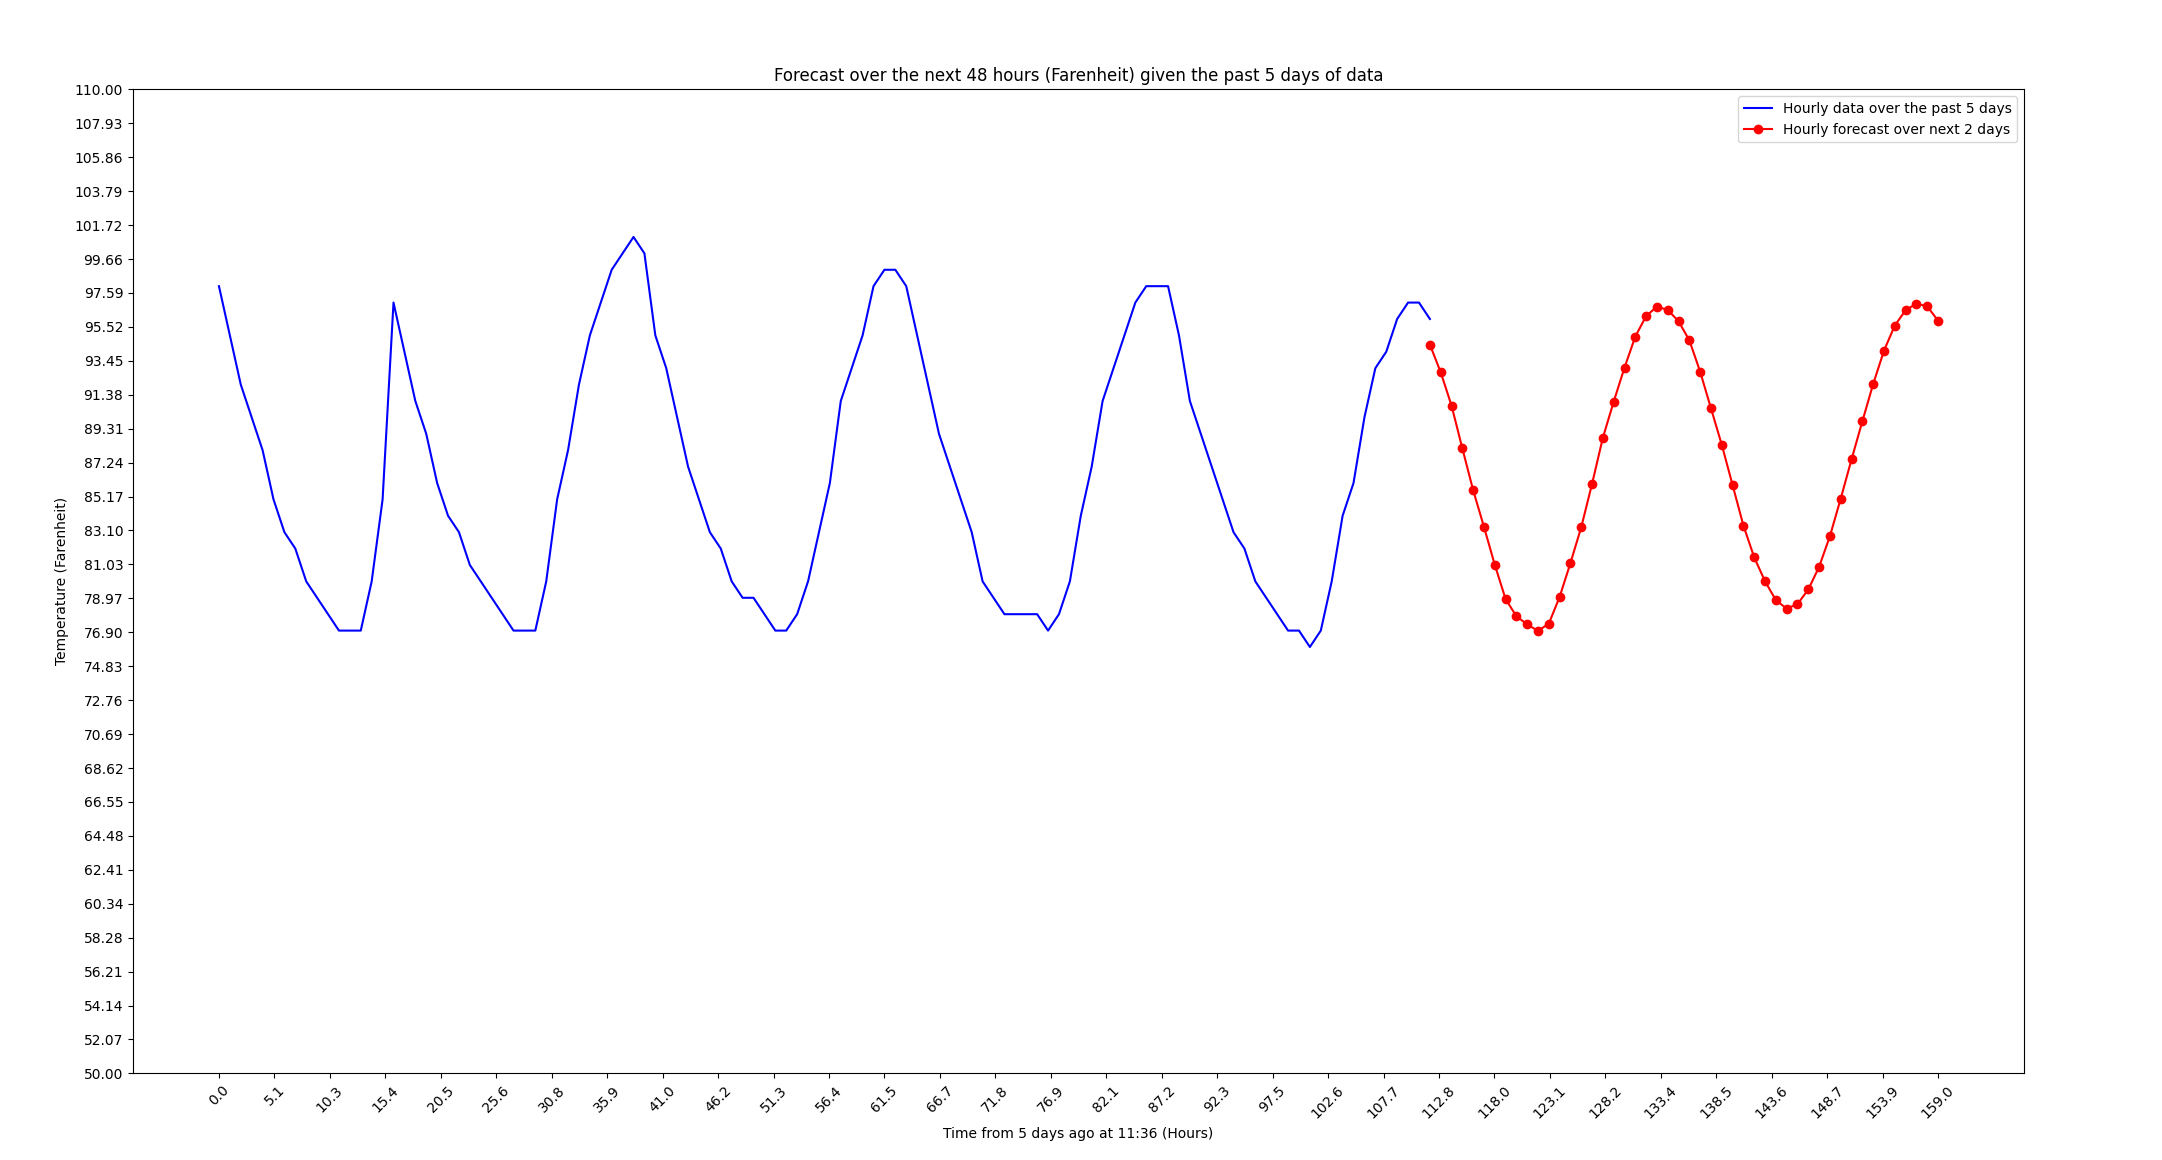
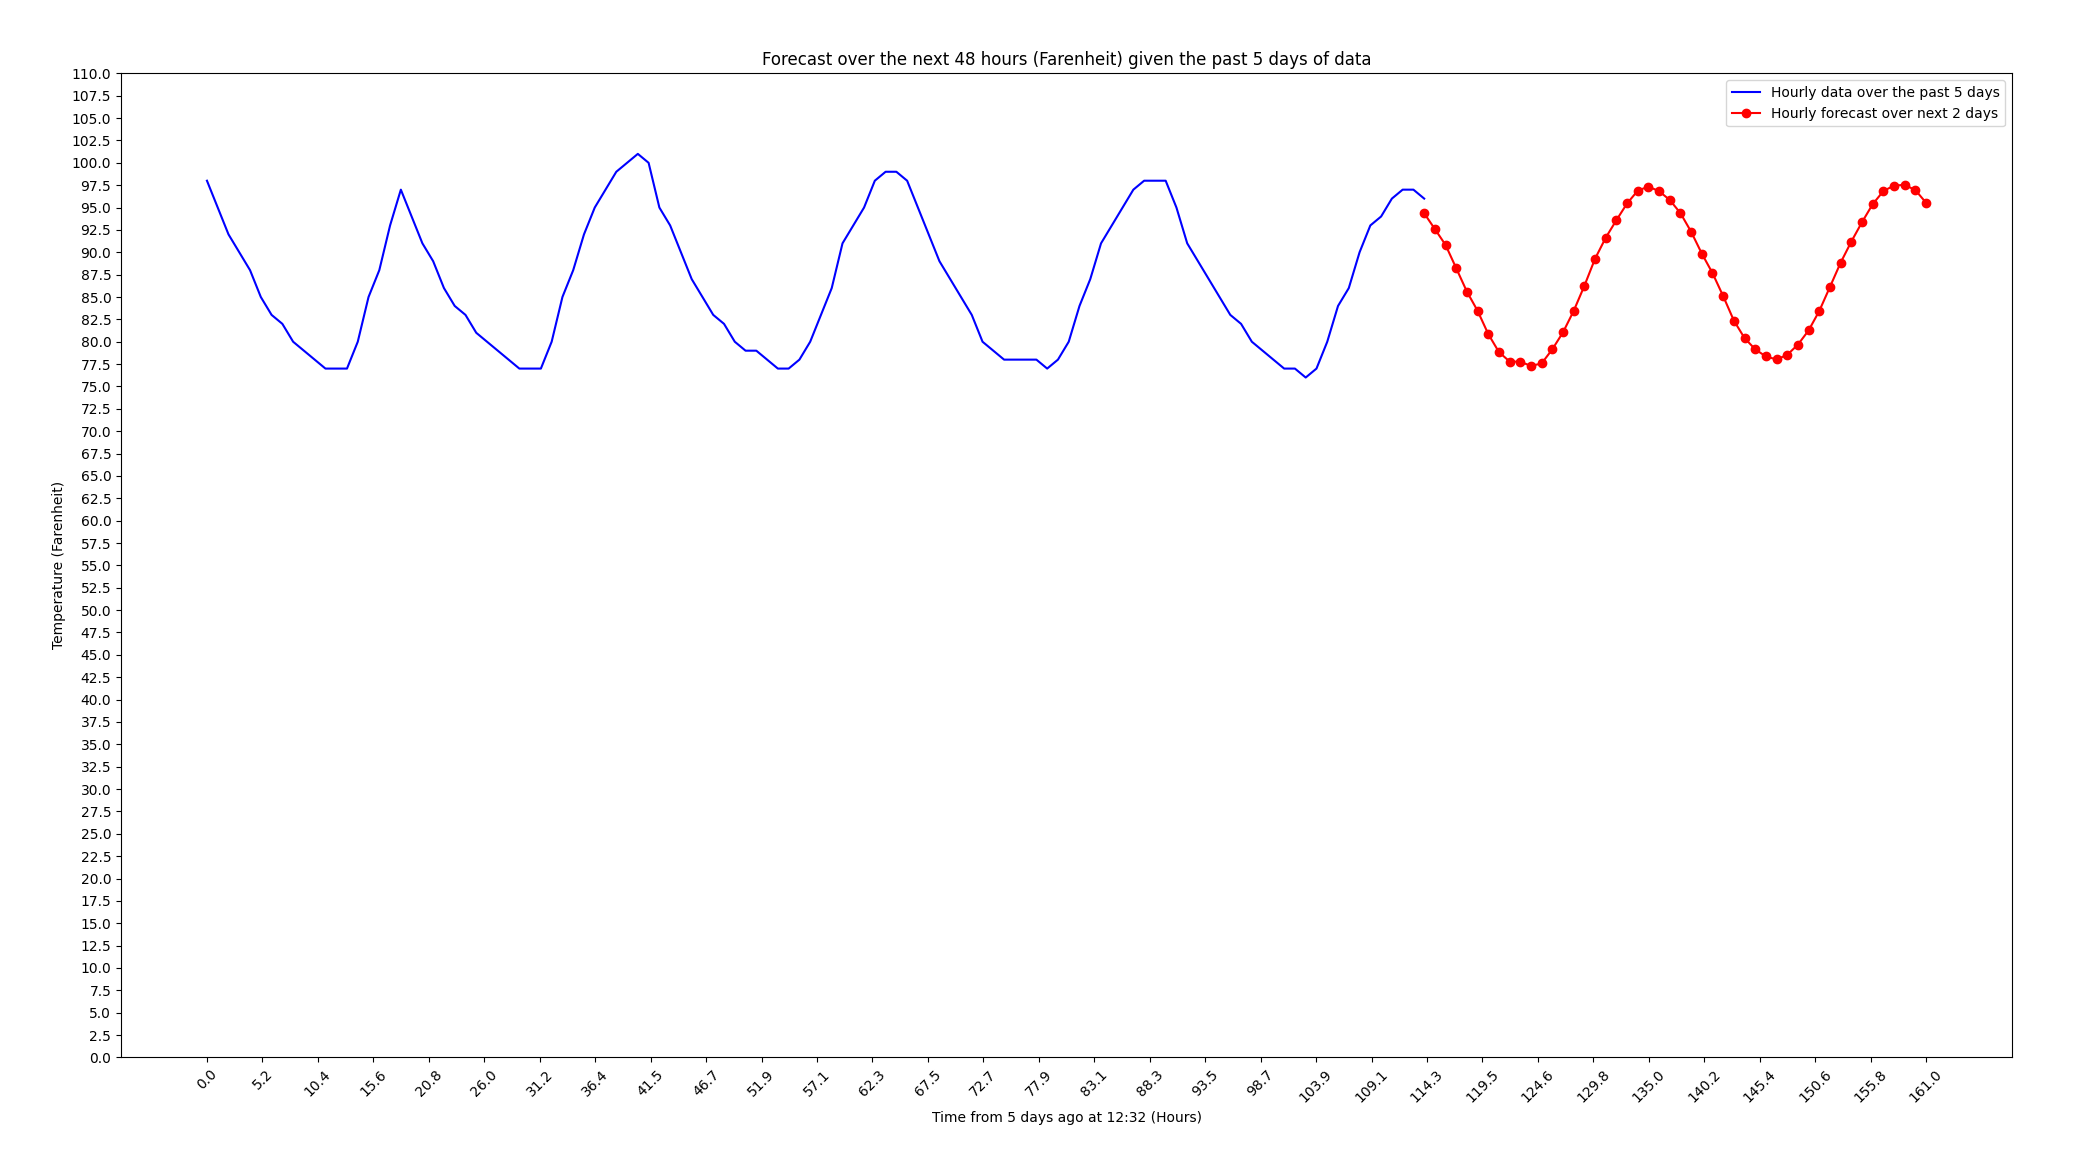
changed the plt graph to show lower temperatures, updated screenshot

diff --git a/notebook.py b/notebook.py
@@ -118,7 +118,7 @@ def make_predictions(filename):
     x_ticks = np.linspace(0, len(series)-1, num=int(len(series)/5))
     plt.xticks(x_ticks, rotation=45)
 
-    y_ticks = np.linspace(50,110,num=30)
+    y_ticks = np.linspace(0,110,num=45)
     plt.yticks(y_ticks)
 
     plt.legend(loc='upper right')
